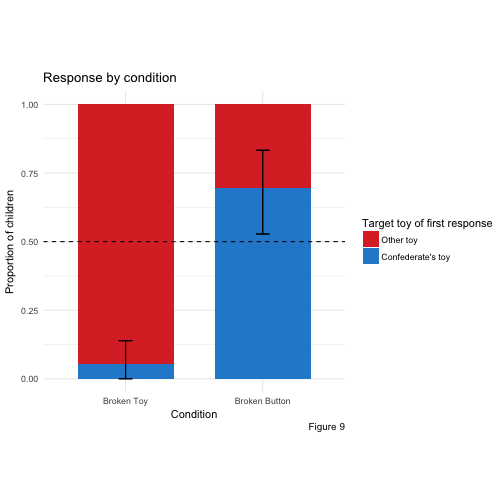
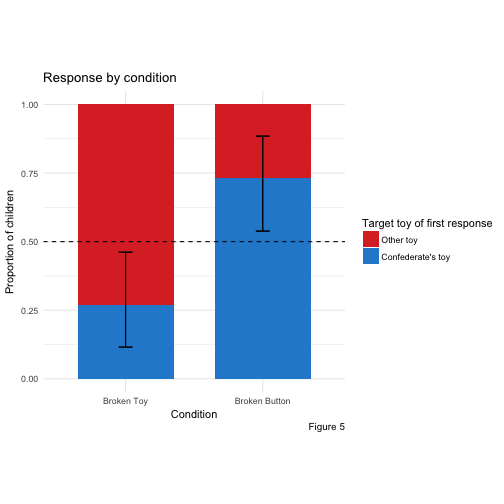
edit results

diff --git a/thesis.md b/thesis.md
@@ -35,14 +35,12 @@ We constructed three identical-looking toys. One side of each toy was covered in
 ### Procedure
 The experiment began with a *warm-up phase* in which a confederate and experimenter engaged the child in reciprocal games (e.g., rolling a ball back and forth through a tube) in order to help the child feel comfortable with the researchers, and promote general helping behavior (see Cortes Barragan & Dweck, 2014). After approximately 5 minutes of warm-up, the confederate excused herself from the room, explaining that she had work to do.
 
-Then, the child gained experience with the toys during the *play phase*. The experimenter behaved as if she were exploring the toys for the first time. She took one toy out at a time and showed it to the child. In the Broken Toy condition, the toys were oriented such that the yellow side was on top. She noticed the yellow button, pressed it, and reacted positively to the music that played. She also encouraged the child to press the yellow button and again reacted positively, saying, “Music! The yellow side plays music!”. She then turned the toy around in her hands until she discovered the red button on the opposite side, and expressed mild surprise, as if she did not expect it to be there. She pressed the red button and also encouraged the child to do so, acting perplexed and disappointed that it did not play music. The experimenter then took the second toy out, which she and the child explored in the same way (i.e., the experimenter pressed each button, and then encouraged the child to do so). This second toy was always the broken toy. This process was repeated with the third toy, which functioned the same as the first (i.e., the yellow button played music, but the red button did nothing). The child and experimenter then explored each toy again, taking turns pressing the buttons. 
-
-The Broken Button condition proceeded identically except that the toys were placed with the red side up, such that the red button was discovered first, and then the yellow. By the end of the play phase, all children experienced that pressing the yellow buttons on two of the toys played music (and one was inert), and that none of the red buttons played music. See Figure 2 for a schematic of the play phase.
+Then, the child gained experience with the toys during the *play phase*. The experimenter behaved as if she were exploring the toys for the first time. She took one toy out at a time and showed it to the child. In the Broken Toy condition, the toys were oriented such that the yellow side was on top. She noticed the yellow button, pressed it, and reacted positively to the music that played. She also encouraged the child to press the yellow button and again reacted positively, saying, “Music! The yellow side plays music!”. She then turned the toy around in her hands until she discovered the red button on the opposite side, and expressed mild surprise, as if she did not expect it to be there. She pressed the red button and also encouraged the child to do so, acting perplexed and disappointed that it did not play music. The experimenter then took the second toy out, which she and the child explored in the same way (i.e., the experimenter pressed each button, and then encouraged the child to do so). This second toy was always the broken toy. This process was repeated with the third toy, which functioned the same as the first (i.e., the yellow button played music, but the red button did nothing). The child and experimenter then explored each toy again, taking turns pressing the buttons. The Broken Button condition proceeded identically except that the toys were placed with the red side up, such that the red button was discovered first, and then the yellow. By the end of the play phase, all children experienced that pressing the yellow buttons on two of the toys played music (and one was inert), and that none of the red buttons played music. See Figure 2 for a schematic of the play phase.
  
 ![Figure 3 Order in which children saw and pressed the buttons in each of the conditions. Children explored both buttons on a toy before moving onto the next toy. In the Broken Toy condition, children encountered the yellow button on each toy before the red button. In the Broken Button condition, children encountered the red button on each toy before the yellow button.](images/three-toy-play-phase.png)
 
 
-In the helping phase, the experimenter placed toys back on the tray and covered them with the felt. The toys were placed as they were during the play phase: yellow-side-up in the Broken Toy condition, and red-side-up in the Broken Button condition. The child sat approximately 6 ft away from the tray, either by him-/herself or with a parent. The experimenter then called the confederate back into the room and explained that she and the child were playing with toys that played music. The confederate said, “I love music!” and knelt down behind the tray, facing the child. She appeared to think about which toy to select, then said, "Hmm, I think I'll play with this one!" She then took a toy out from behind the felt such that the child could not see from where on the tray the toy was selected.x
+In the helping phase, the experimenter placed toys back on the tray and covered them with the felt. The toys were placed as they were during the play phase: yellow-side-up in the Broken Toy condition, and red-side-up in the Broken Button condition. The child sat approximately 6 ft away from the tray, either by him-/herself or with a parent. The experimenter then called the confederate back into the room and explained that she and the child were playing with toys that played music. The confederate said, “I love music!” and knelt down behind the tray, facing the child. She appeared to think about which toy to select, then said, "Hmm, I think I'll play with this one!" She then took a toy out from behind the felt such that the child could not see from where on the tray the toy was selected.
 
 ![Figure 4 PLACEHOLDER FIX LATER Depiction of the helping phase in the Broken Toy condition. The Broken Button condition proceeded identically, except that all three toys were oriented such that the red button was on top.`](images/three-toy-helping-phase.png)
 
@@ -50,35 +48,53 @@ In the helping phase, the experimenter placed toys back on the tray and covered 
 ### Coding
 We were interested in children’s first helping behavior after the confederate’s failure to activate her toy (i.e., her first button press). The key dependent measure was the target toy of this behavior, coded as either the “confederate’s toy” or the “toys on the tray”. All children who responded fell into one of these two categories.
 
-We also looked at the consequence of children’s first helping responses. We coded whether their behavior was “successful or “unsuccessful” in achieving the confederate’s goal of playing music. In the Broken Toy condition, we coded a child’s first response as “successful” if the child pressed the yellow button on a toy from the tray or directed the confederate to press it (e.g., telling her to do so; handing or pointing to a toy yellow side up). “Unsuccessful” responses included pressing or directing the confederate to press the red button on any toy or the yellow button on the confederate’s toy. In the Wrong Action condition, a behavior was coded as “successful” if a child flipped and pressed the yellow button or directed the confederate to do so (e.g., telling her to press it, flipping a toy and handing or pointing to it yellow-side- up). Thus, in the Wrong Action condition, a behavior could be successful regardless of which toy a child’s first response targeted, whereas in the Broken Toy condition, only behavior directed toward the toys on the tray could be successful. The first and second author transcribed and coded children’s behavior and a researcher blind to the hypotheses coded these transcriptions for reliability and agreement was 100%.
+We also looked at the consequence of children’s first helping responses. We coded whether their behavior was “successful" or “unsuccessful” in achieving the confederate’s goal of playing music. In the Broken Toy condition, we coded a child’s first response as “successful” if the child pressed the yellow button on a toy from the tray or directed the confederate to press it (e.g., telling her to do so; handing or pointing to a toy yellow side up). “Unsuccessful” responses included pressing or directing the confederate to press the red button on any toy or the yellow button on the confederate’s toy. In the Broken Button condition, we coded a behavior as “successful” if a child flipped and pressed the yellow button or directed the confederate to do so (e.g., telling her to press it, flipping a toy and handing or pointing to it yellow-side- up). Thus, in the Broken Button condition, a behavior could be successful regardless of which toy a child’s first response targeted, whereas in the Broken Toy condition, only behavior directed toward the toys on the tray could be successful. A researcher blind to the hypotheses coded these transcriptions for reliability and agreement was 100%.
 
 # Results
 
 
 
-Children in both conditions saw the same set of toys and watched the confederate perform the same action (pressing an obvious button on the top of a toy, which subsequently did not play music). All children could then either approach the toy the confederate had just pressed or a toy on the tray. The conditions differed in the likely source of the confederate's failure to play music, which we manipulated by varying whether the obvious button pressed by the confederate was the type of button that worked on a majority of the toys (i.e., a yellow button; Broken Toy condition) or the type of button that was always inert (i.e., a red button; Broken Button condition).  
+Children in both conditions saw the same set of toys and watched the confederate perform the same action (pressing an obvious button on the top of a toy, which subsequently did not play music). All children could then either approach the toy the confederate had just pressed or a toy on the tray. The conditions differed only in the likely source of the confederate's failure to play music. We manipulated the likely source of her failure by varying whether the button pressed by the confederate was the type of button that worked on a majority of the toys (i.e., a yellow button; Broken Toy condition) or the type of button that was always inert (i.e., a red button; Broken Button condition).  
 
-We predicted responses to vary across conditions depending on the source of the confederate’s failure. In the Broken Toy condition, the source of the confederate's failure is likely the toy itself--since she presses a yellow button that works on all toys except one, she must have the inert toy. Therefore, the child can only help the confederate achieve her goal of playing music by targeting a new toy (a toy on the tray). In the Broken Button condition, however, the child can only infer that the confederate is pressing an inert buttton. Each toy has an inert red button, so the child cannot infer which toy (i.e., functional or non-functional) the confederate has chosen. Therefore, in this condition, children could help the confederate by approaching her toy, since the toy may have a functional yellow button on the bottom. We thus predicted that more children would approach the “toys on the tray” in the Broken Toy condition than in the Wrong Action condition. As predicted, children were significantly more likely to direct their help toward a toy on the tray in the Broken Toy condition than in the Wrong Action condition (73% vs. 27%; two-tailed Fisher’s Exact Test, p = 0.002).
+We predicted responses to vary across conditions depending on the source of the confederate’s failure. In the Broken Toy condition, the confederate presses a yellow button. From this action alone, you can infer that she has the inert toy, since yellow buttons produce music on all toys except one. The source of her failure is therefore the toy itself. Her action (pressing a yellow button) would have produced music if she had chosen another toy. The child can thus only help the confederate achieve her goal of playing music by targeting a new toy from the tray.
 
-![plot of chunk unnamed-chunk-2](figure/unnamed-chunk-2-1.png)
+In the Broken Button condition, however, it is only possible to infer that the confederate is taking the wrong action on a toy (i.e., pressing a red button instead of a yellow one). Each toy has an inert red button, so the confederate's action provides no information about which type of toy (functional or inert) she has chosen. Therefore, in this condition, children could help the confederate by approaching her toy, as toy may have a functional yellow button on the bottom. We thus predicted that more children would approach the “toys on the tray” in the Broken Toy condition than in the Broken Button condition. As predicted, children were significantly more likely to direct their help toward a toy on the tray in the Broken Toy condition than in the Broken Button condition (73% vs. 27%; two-tailed Fisher’s Exact Test, p = 0.002).
 
-
-We then looked at children’s responses within each condition. In the Broken Toy condition, no action on the confederate's toy could produce music and therefore help the confederate fulfill her goal. We thus predicted that children in this condition would preferentially direct their help toward a toy on the tray and, as predicted, children were more likely to approach the “toys on the tray” than the “confederate’s toy” (19/26; two-tailed binomial test, p = 0.029).
-
-In the Broken Button condition, however, it is ambiguous whether or not the confederate has the fully inert toy. There is a 33% chance any toy the child flips over will have an inert yellow button. Since all toys are now equally likely to produce music, it is helpful for the child to target any toy. However, there are reasons to expect that children would prefer the confederate's toy in this condition. First, children may be inclined to approach the toy just acted upon by the confederate. Second, it is reasonable to conclude from the confederate's actions that she not only wants help playing music, but also that she wants help playing music specifically with her chosen toy. Thus, we expected that children might show a mild preference for the confederate’s toy. The majority of children in the Broken Button condition did approach the "confederate's toy" (13/26; two-tailed binomial test, p = 0.029). See Figure 2 for a summary of children’s first responses.
-
-As a secondary measure of interest, we looked at the success of children's helping responses. We considered responses successful if they helped the confederate produce music. In the Broken Toy condition, a behavior could be successful only if it involved approaching the "toys on the tray." In the Broken Button condition, successful behaviors involved revealing a bottom button on any of the toys. Therefore, it is plausible that helping successfully is more difficult in the Broken Button condition than in the Broken Toy condition. However, we found no difference in success of helping behavior across the two conditions (73% in Broken Toy vs. 100 in Broken Button; two-tailed Fisher’s Exact Test, p = 0.0098). Children within each condition were also more likely to help successfully than unsuccessfully (Broken Toy: 19/26; Broken Button: 25/25). One child in the Broken Button condition was dropped from this analysis because the camera angle prevented visual access to the content of her helping behavior.
+![plot of chunk unnamed-chunk-14](figure/unnamed-chunk-14-1.png)
 
 
-![plot of chunk unnamed-chunk-3](figure/unnamed-chunk-3-1.png)
+We then looked at children’s responses within each condition. In the Broken Toy condition, children could not help fulfill the confederate's goal of producing music by acting on the confederate's toy. We thus predicted that children in this condition would preferentially direct their help toward a toy on the tray. As predicted, children were more likely to approach the “toys on the tray” than the “confederate’s toy” (19/26; two-tailed binomial test, p = 0.029).
+
+In the Broken Button condition, however, it is not clear which toy the confederate has chosen. There is a 33% chance that any toy is the inert toy, and thus all toys are equally likely to be capable of producing music. It is therefore reasonable to target any toy. However, there are several reasons to expect that children would prefer the confederate's toy in this condition. First, children may be inclined to approach the toy just acted upon by the confederate. Second, children may conclude that the confederate's goal is not just to play music, but to play music specifically with her chosen toy. Thus, we expected that children would show a mild preference for the confederate’s toy. The majority of children in the Broken Button condition did approach the "confederate's toy" (13/26; two-tailed binomial test, p = 0.029). See Figure 4 for a summary of children’s first responses.
+
+As a secondary measure of interest, we looked at the success of children's helping responses. We considered response successful if the child acted in way that could fulfill the confederate's goal of playing music. In the Broken Toy condition, a behavior could be successful only if it involved approaching the "toys on the tray." In the Broken Button condition, successful behaviors involved revealing a yellow button on any of the toys. It is plausible that helping successfully is more difficult in the Broken Button condition, as it involves revealing a non-obvious button. However, children can be helpful at either toy in the Broken Button condition and there are therefore more ways to offer successful help. All children in the Broken Button condition included in this analysis helped successfully (25/25). One child in the Broken Button condition was dropped from this analysis because the camera angle prevented visual access to the content of her helping behavior. Children in the Broken Button condition were more likely to help successfully than children in the Broken Button condition (73% in Broken Toy vs. 100 in Broken Button; two-tailed Fisher’s Exact Test, p = 0.0098). Children tended to help successfully overall; within each condition, children were more likely to help successfully than unsuccessfully (Broken Toy: 19/26, two-tailed binomial test, p = 0.0289593; Broken Button: 25/25, two-tailed binomial test, p = 6 &times; 10<sup>-8</sup>). 
 
 
-Finally, as an exploratory analysis, we re-coded children’s first responses as “correct” (Broken Toy: “toys on tray”; Wrong Action: “confederate’s toy”) or “incorrect”. We fit a generalized linear model with correctness as the outcome variable, condition as a categorical predictor variable, and age as a continuous predictor variable. This analysis revealed that age is a significant predictor of "correctness" ($\Beta$ = 1.6685494, p = 0.0333963), but that condition is not ($\Beta$ = -0.0836437, p = 0.8995897).
+![plot of chunk unnamed-chunk-15](figure/unnamed-chunk-15-1.png)
 
+
+
+
+Finally, as an exploratory analysis, we coded children’s first responses as “correct” (Broken Toy: “toys on tray”; Broken Button: “confederate’s toy”) or “incorrect”. We fit a generalized linear model with correctness as the outcome variable, condition as a categorical predictor variable, and age as a continuous predictor variable. This analysis revealed that age is a significant predictor of "correctness" ($\beta$ = , p = ), but that condition is not ($\beta$ = , p = ). For details, see Table 7.
+
+
+```
+## [1] 7
+```
+
+
+
+|Term                    | Estimate|   SE| Z statistic| p_value|
+|:-----------------------|--------:|----:|-----------:|-------:|
+|Intercept               |    -3.45| 2.07|       -1.67|    0.09|
+|condition:Broken Button |    -0.08| 0.66|       -0.13|    0.90|
+|Age                     |     1.67| 0.78|        2.13|    0.03|
+
+### Discussion
+
+However, the Broken Button condition does not require children to make an inference about the source of the confederate's failure. Because of the toys color-coding, in the Broken Button condition, all possible helpful actions are marked in yellow. Therefore, children could just remember that yellow produces music, instead of inferring that the source of the confederate's failure. This is not the case, however, in the Broken Toy condition. Both the confederate's failed action and all helpful actions are marked in yellow. Children need to target a yellow button on a *new* toy and cannot simply target a particular color. To eliminate this alternative explanation in the Broken Button condition as well as the asymmetry between the two conditions, we designed a second experiment with two identical toys. 
 
 # Experiment 2
-
-In Experiment 1, the toys were color-coded such that all red buttons were inert, and 2/3 of yellow buttons played music. Therefore, in the Broken Button condition, children do not necessarily have to reason about the cause of the confederate's failure. Instead, it is possible to just remember that yellow sides play music, and target a yellow side when the confederate asks for help. The helpful action is marked by a color. This is not the case, however, in the Broken Toy condition, since the confederate presses a yellow button and the toy does nothing. In order to help the confederate in this condition, children need to target a yellow button on a *new* toy and cannot simply target a particular color. This is an asymmetry between the two conditions. To eliminate this alternative explanation in the Broken Button condition as well as the asymmetry between the two conditions, we designed a second experiment with two identical toys. 
 
 ## Methods
 
@@ -93,9 +109,9 @@ We randomly assigned children to one of two conditions: the Broken Toy condition
 
 ### Stimuli
 
-We constructed four toys, similar to those used in Experiment 1. Two opposite sides of each toy were covered in red felt and had a red button in the center. The others sides of the toys were covered in blue felt. For two of the four toys, the button on one side played music when pressed, while the other was inert. Both buttons on one of the other two toys played music, while neither button on the final toy did anything. The fully functional and the inert toys were used in the Broken Toy condition. The two identical, half-functional toys were used in the Broken Button condition. In each condition, the two toys were placed in a woven basket. See Figure 6 for a schematic of the toys.
+We constructed four toys, similar to those used in Experiment 1. Two opposite sides of each toy were covered in red felt and had a red button in the center. The others sides of the toys were covered in blue felt. For two of the four toys, the button on one side played music when pressed, while the other was inert. Both buttons on one of the other two toys played music, while neither button on the final toy did anything. The fully functional and the inert toys were used in the Broken Toy condition. The two identical, half-functional toys were used in the Broken Button condition. In each condition, the two toys were placed in a woven basket. See Figure 7 for a schematic of the toys.
 
-![Figure 6](images/two-toy-schematic.png)
+![Figure 7](images/two-toy-schematic.png)
 
 
 ### Procedure
@@ -144,7 +160,7 @@ To verify that children did not express a side bias or preference for any confed
 
 Children in each condition saw identical-looking toys. The only difference across the two conditions was the functionality of the toys. In the Broken Toy condition, one toy has two functional buttons and the other has two inert buttons. When the confederate presses the top button on her own toy, the child can then know that she has the broken toy. The only way to effectively help the confederate with her goal of playing music is to act on the other toy. In the Broken Button condition, the toys are identical. Each toy has one functional button and one inert button. Once the confederate presses the top button on her toy, it's possible to infer that the bottom button will be functional. It is therefore reasonable to help by targeting the "confederate's toy". However, the "other toy" also has a functional button, and so targeting this toy can also address the confederate's goal of playing music. Since it is reasonable for children to target either toy in this condition, we predicted that children would be more likely to target the "other toy" in the Broken Toy condition than in the Broken Broken Button condition. As predicted, children were significantly more likely to direct their help toward the "other toy" in the Broken Toy condition than in the Broken Button condition (% % vs. %; two-tailed Fisher’s Exact Test, p = 6 &times; 10<sup>-4</sup>).
 
-![plot of chunk unnamed-chunk-7](figure/unnamed-chunk-7-1.png)
+![plot of chunk unnamed-chunk-21](figure/unnamed-chunk-21-1.png)
 
 
 We also looked at responses within each condition. In the Broken Toy condition, since the only way to help the confederate in her goal to play music is to target the "other toy", we predicted that children would be more likely to target the "other toy" than the "confederate's toy." We found that children were more likely to approach the “other toy” than the “confederate’s toy” (/`summary_two_toy$num_bt`; two-tailed binomial test, p = 10<sup>-4</sup>).
@@ -153,7 +169,7 @@ We did not have a directed prediction for the Broken Button condition, as it is 
 
 Again, as a secondary measure, we looked at the success of children's helping behaviors. Successful behaviors included only those that aided the confederate in her goal of playing music. In the Broken Toy condition, children could successfully help only if they targeted the other toy. In the Broken Button condition, children could successfully help if they targeted either the bottom button on the confederate's toy, or the bottom button on the other toy [seems kind of confusing why this is maybe clarify]. We again found no difference in the success of helping behavior across the two conditions (84% in Broken Toy vs. 72 in Broken Button; two-tailed Fisher’s Exact Test, p = 0.3649). We then collapsed across conditions and found that children were more likely to successfully help than to unsuccessfully help (50/`summary_two_toy$num_participants`; two-tailed binomial test, p = ).
 
-![plot of chunk unnamed-chunk-8](figure/unnamed-chunk-8-1.png)
+![plot of chunk unnamed-chunk-22](figure/unnamed-chunk-22-1.png)
 
 As another secondary analysis, we investigated how often children in each condition exhibited the "correct" response. In the Broken Toy condition, "correct" responses are those that target the other toy. In the Broken Button condition, "correct" responses are those that target the confederate's toy. 
 
@@ -203,7 +219,7 @@ We randomly assigned children to one of two conditions: the Broken Toy condition
 
 We constructed three pairs of toys. One toy in each pair looked identical to the toys constructed in Experiment 2 (*top-bottom toys*). The other three toys had a button on the top and on an adjacent side (*top-side toys*), instead of on the top and bottom, but were otherwise identical to the toys in Experiment 2. The toys in one pair each had one functional button and one inert button. For the other two pairs of toys, one toy had two functional buttons and the other had two inert buttons. In one of these pairs, the functional toy was a top-bottom toy; in the other pair, the functional toy was a top-side toy.
 
-![Figure 8](images/modified-toy-schematic.png)
+![Figure 9](images/modified-toy-schematic.png)
 
 ### Procedure
 
@@ -238,7 +254,7 @@ To verify that children did not express a bias for a particular toy type, side, 
 |confederateSophie   |   -16.34| 4650.16|        0.00|    1.00|
 
 
-![plot of chunk unnamed-chunk-14](figure/unnamed-chunk-14-1.png)
+![plot of chunk unnamed-chunk-28](figure/unnamed-chunk-28-1.png)
 
 Again, we predicted that responses would vary across conditions depending on the source of the confederate's failure, and that children in the Broken Toy condition would be more likely to target the "other toy" than children in the Broken Button condition. As predicted, children were significantly more likely to direct their help toward the "other toy" in the Broken Toy condition than in the Broken Button condition (94% % vs. %; two-tailed Fisher’s Exact Test, p = 1.6 &times; 10<sup>-8</sup>). This replicates the findings in Experiment 1 and 2.
 
@@ -252,14 +268,14 @@ As a secondary analysis, we investigated whether the proportion of children who 
 
 Since we found a signficant difference across conditions, we then looked at children's tendencies to behave as predicted within each condition....
 
-![plot of chunk unnamed-chunk-16](figure/unnamed-chunk-16-1.png)
+![plot of chunk unnamed-chunk-30](figure/unnamed-chunk-30-1.png)
 
 
 
-![plot of chunk unnamed-chunk-18](figure/unnamed-chunk-18-1.png)
+![plot of chunk unnamed-chunk-32](figure/unnamed-chunk-32-1.png)
 
 
-![plot of chunk unnamed-chunk-19](figure/unnamed-chunk-19-1.png)
+![plot of chunk unnamed-chunk-33](figure/unnamed-chunk-33-1.png)
 
 
 # COMMENTS TO SELF
